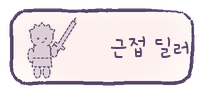
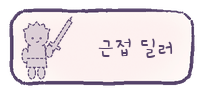
틀 고르기 카드: 아이콘 칸을 좁히고 이름 글씨를 조금 줄여 '원거리 딜러' 가 잘리지 않게

Changed region(s): [[0.0882, 0.1562, 0.3824, 0.8438], [0.4706, 0.375, 0.9412, 0.625]]

diff --git a/tools/gen_draw.py b/tools/gen_draw.py
@@ -163,12 +163,12 @@ def frame_card(frame, on):
     # 왼쪽에 작은 틀 실루엣
     g = guide(frame, alpha=255, width=6.0, fill_alpha=80 if on else 50, color=PLUM)
     g = g.crop(g.getbbox())
-    k = min(76 / g.width, 62 / g.height)
+    k = min(62 / g.width, 64 / g.height)   # 아이콘 칸 62px, 나머지는 이름 칸
     icon = g.resize((round(g.width * k), round(g.height * k)), Image.LANCZOS)
-    img.alpha_composite(icon, (14 + (76 - icon.width) // 2, (h - icon.height) // 2))
+    img.alpha_composite(icon, (16 + (62 - icon.width) // 2, (h - icon.height) // 2))
     sh = Sheet(w, h, seed=0, ss=1)
     sh.img = img
-    sh.ink_text(frame['name'], ImageFont.truetype(os.path.join(pastel.FONTS, pastel.HAND), 24), 150, h / 2,
+    sh.ink_text(frame['name'], ImageFont.truetype(os.path.join(pastel.FONTS, pastel.HAND), 22), 136, h / 2,
                 PLUM, anchor='mm')
     return img
 
